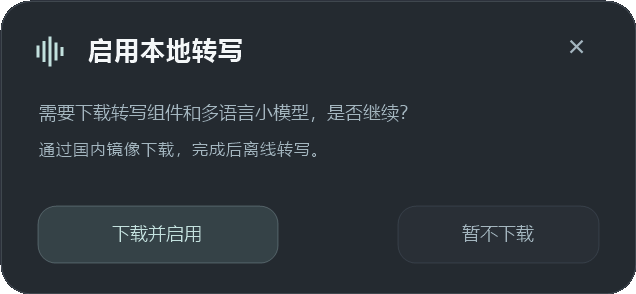
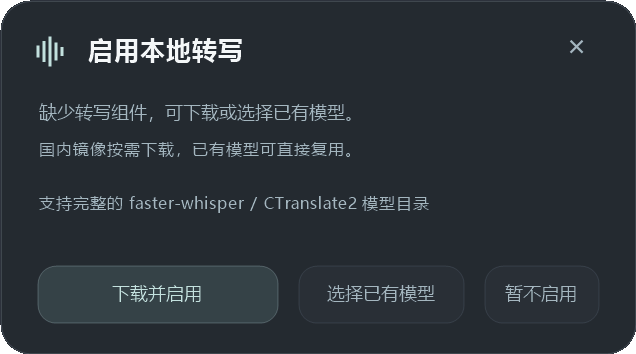
feat: choose existing local transcription model folders

diff --git a/native/main.cpp b/native/main.cpp
@@ -36,7 +36,7 @@ const Color accent(255,194,225,222), danger(255,244,117,118);
 }
 enum { Folder = 101, OpenFolder, ShowText, HideWindow, ExitApp,
        CallOff, CallAsk, CallAuto, Retry, ShowWindowCmd, ScopeGlobal, ScopeProgram, EditHotkeys, ToggleStartup,
-       ResetCloseAction, MessagingCalls };
+       ResetCloseAction, MessagingCalls, SelectModel };
 HWND window = nullptr, transcript = nullptr, edit = nullptr;
 fs::path project, config, root, session, activeRoot, model, python;
 fs::path diagnosticFrame;
@@ -125,6 +125,7 @@ void showCloseChoice(bool exitOnly=false,const std::wstring& callName=L"",bool s
 void resetCallGates();
 void beginAsrSetup();
 void toggleTranscription();
+bool chooseModelFolder();
 
 std::vector<Program> runningPrograms() {
     std::vector<Program> result;
@@ -340,6 +341,70 @@ void chunkReady(const lightrec::Chunk& c) {
 bool localAsrReady() {
     return !python.empty()&&fs::exists(python)&&!model.empty()&&
         fs::exists(model/L"model.bin")&&fs::exists(model/L"config.json");
+}
+bool modelFolderReady(const fs::path& folder) {
+    auto nonempty=[&](const wchar_t* name) {
+        std::error_code ec;
+        fs::path file=folder/name;
+        if(!fs::is_regular_file(file,ec)||ec) return false;
+        auto size=fs::file_size(file,ec);
+        return !ec&&size>0;
+    };
+    return !folder.empty()&&nonempty(L"model.bin")&&nonempty(L"config.json")&&
+        nonempty(L"tokenizer.json")&&(nonempty(L"vocabulary.txt")||nonempty(L"vocabulary.json"));
+}
+bool selectModelFolder(const fs::path& selected,std::wstring& issue) {
+    if(setupProcess) { issue=L"正在安装转写组件，请完成后再更换模型。"; return false; }
+    pollAsr();
+    if(enabled||asr) {
+        issue=L"请先关闭转写，当前分段完成后再更换模型。"; return false;
+    }
+    if(!modelFolderReady(selected)) {
+        issue=L"请选择含 model.bin、配置和词表的完整模型目录。"; return false;
+    }
+    if(!setting(L"asr_model",selected.wstring())) {
+        issue=L"模型位置无法保存，原设置已保留。"; return false;
+    }
+    model=selected; issue.clear(); return true;
+}
+bool chooseModelFolder() {
+    if(diagnostic) return false;
+    pollAsr();
+    if(setupProcess||enabled||asr) {
+        note=L"请先关闭转写，等待当前分段或安装完成后再选择模型"; return false;
+    }
+    IFileOpenDialog* dialog=nullptr;
+    if(FAILED(CoCreateInstance(CLSID_FileOpenDialog,nullptr,CLSCTX_INPROC_SERVER,
+                              IID_PPV_ARGS(&dialog)))) {
+        note=L"无法打开模型文件夹选择器"; return false;
+    }
+    DWORD opts=0; dialog->GetOptions(&opts);
+    dialog->SetOptions(opts|FOS_PICKFOLDERS|FOS_FORCEFILESYSTEM|FOS_PATHMUSTEXIST|FOS_NOCHANGEDIR);
+    dialog->SetTitle(L"选择完整的 faster-whisper 模型文件夹（含 model.bin）");
+    IShellItem* initial=nullptr;
+    if(!model.empty()&&SUCCEEDED(SHCreateItemFromParsingName(model.c_str(),nullptr,IID_PPV_ARGS(&initial)))) {
+        dialog->SetFolder(initial); initial->Release();
+    }
+    bool selected=false;
+    ++interactionDepth;
+    if(SUCCEEDED(dialog->Show(closeDialog?closeDialog:window))) {
+        IShellItem* item=nullptr;
+        if(SUCCEEDED(dialog->GetResult(&item))) {
+            PWSTR name=nullptr;
+            if(SUCCEEDED(item->GetDisplayName(SIGDN_FILESYSPATH,&name))) {
+                std::wstring issue;
+                selected=selectModelFolder(fs::path(name),issue);
+                CoTaskMemFree(name);
+                note=selected?L"模型位置已记住 · 直接使用原文件":issue;
+                if(!selected&&closeDialog) {
+                    closeIssue=true; SetDlgItemTextW(closeDialog,704,issue.c_str());
+                }
+            }
+            item->Release();
+        }
+    }
+    --interactionDepth; outsideSince=0;
+    dialog->Release(); return selected;
 }
 void beginAsrSetup() {
     if(diagnostic) return;
@@ -1298,7 +1363,7 @@ void paintCloseControl(HWND hwnd,HDC dc,bool hovered,bool forceFocus=false) {
     wchar_t label[256]{}; GetWindowTextW(hwnd,label,256);
     int id=GetDlgCtrlID(hwnd); bool focused=forceFocus||GetFocus()==hwnd;
     bool pushed=(SendMessageW(hwnd,BM_GETSTATE,0,0)&BST_PUSHED)!=0;
-    if(id==700||id==704||id==705) {
+    if(id==700||id==704||id==705||id==707) {
         text(g,label,0,0,w,h,id==700?17.f:id==705?12.f:11.f,
             id==700?ui::primary:(id==704&&closeIssue?ui::danger:ui::secondary),ui::font,id==700);
         return;
@@ -1322,7 +1387,7 @@ void paintCloseControl(HWND hwnd,HDC dc,bool hovered,bool forceFocus=false) {
         g.DrawLine(&cross,w/2-4,h/2-4,w/2+4,h/2+4);
         g.DrawLine(&cross,w/2+4,h/2-4,w/2-4,h/2+4);
     } else {
-        bool danger=id==702;
+        bool danger=id==702&&!closeSetupPrompt;
         bool primary=id==701;
         Color ink=danger?ui::danger:primary?ui::accent:ui::secondary;
         Color fill=danger?Color(pushed?65:hovered?45:20,244,117,118):
@@ -1343,7 +1408,7 @@ void paintCloseControl(HWND hwnd,HDC dc,bool hovered,bool forceFocus=false) {
 }
 LRESULT CALLBACK closeControlProc(HWND hwnd,UINT msg,WPARAM wp,LPARAM lp,UINT_PTR id,DWORD_PTR state) {
     if(msg==WM_NCHITTEST&&GetDlgCtrlID(hwnd)==700) return HTTRANSPARENT;
-    if(msg==WM_SETCURSOR&&GetDlgCtrlID(hwnd)!=700&&GetDlgCtrlID(hwnd)!=704&&GetDlgCtrlID(hwnd)!=705) {
+    if(msg==WM_SETCURSOR&&GetDlgCtrlID(hwnd)!=700&&GetDlgCtrlID(hwnd)!=704&&GetDlgCtrlID(hwnd)!=705&&GetDlgCtrlID(hwnd)!=707) {
         SetCursor(LoadCursorW(nullptr,IDC_HAND)); return TRUE;
     }
     if(msg==WM_ERASEBKGND) return 1;
@@ -1371,13 +1436,13 @@ void layoutClose(HWND hwnd) {
     float scale=closeScale;
     struct Item { int id,x,y,w,h; };
     const Item items[]={{700,56,19,300,30},{705,24,64,376,23},{704,24,88,376,24},
-        {703,24,124,260,28},{701,24,176,162,40},{702,198,176,112,40},
+        {703,24,124,260,28},{707,24,120,376,32},{701,24,176,162,40},{702,198,176,112,40},
         {IDCANCEL,322,176,78,40},{706,368,15,32,32}};
     HFONT next=CreateFontW(-(int)(14*scale),0,0,0,FW_NORMAL,FALSE,FALSE,FALSE,DEFAULT_CHARSET,
         OUT_DEFAULT_PRECIS,CLIP_DEFAULT_PRECIS,CLEARTYPE_QUALITY,DEFAULT_PITCH,L"Microsoft YaHei UI");
     for(const auto& item:items) {
         HWND child=GetDlgItem(hwnd,item.id);
-        bool question=closeCallPrompt||closeSetupPrompt;
+        bool question=closeCallPrompt;
         int y=(closeExitOnly&&(item.id==702||item.id==IDCANCEL))||
             (question&&(item.id==701||item.id==IDCANCEL))?136:item.y;
         int x=question&&item.id==IDCANCEL?264:item.x;
@@ -1415,6 +1480,13 @@ LRESULT CALLBACK closeProc(HWND hwnd,UINT msg,WPARAM wp,LPARAM lp) {
         if(id==IDOK) id=closeCallPrompt||closeSetupPrompt?IDCANCEL:closeExitOnly?702:701;
         if(closeCallPrompt||closeSetupPrompt) {
             bool setup=closeSetupPrompt;
+            if(setup&&id==702) {
+                if(chooseModelFolder()) {
+                    DestroyWindow(hwnd);
+                    toggleTranscription();
+                }
+                return 0;
+            }
             if(id==701||id==IDCANCEL||id==706) {
                 DestroyWindow(hwnd);
                 if(id==701) {
@@ -1457,7 +1529,7 @@ void showCloseChoice(bool exitOnly,const std::wstring& callName,bool setupPrompt
     float scale=GetDpiForWindow(window)/96.f;
     closeScale=scale;
     bool question=closeCallPrompt||closeSetupPrompt;
-    RECT bounds{0,0,(LONG)(424*scale),(LONG)((exitOnly||question?196:236)*scale)};
+    RECT bounds{0,0,(LONG)(424*scale),(LONG)((exitOnly||closeCallPrompt?196:236)*scale)};
     DWORD style=WS_POPUP|WS_CLIPCHILDREN;
     RECT owner; GetWindowRect(window,&owner);
     MONITORINFO info{sizeof(info)}; GetMonitorInfoW(MonitorFromWindow(window,MONITOR_DEFAULTTONEAREST),&info);
@@ -1475,27 +1547,40 @@ void showCloseChoice(bool exitOnly,const std::wstring& callName,bool setupPrompt
         SetWindowSubclass(item,closeControlProc,1,0);
     };
     std::wstring title=closeSetupPrompt?L"启用本地转写":closeCallPrompt?L"是否开始录音？":L"关闭全局录音";
-    std::wstring description=closeSetupPrompt?L"需要下载转写组件和多语言小模型，是否继续？":
+    bool existingModel=!model.empty();
+    std::wstring description=closeSetupPrompt?(existingModel?
+        L"已找到本地模型，仅需准备转写运行环境。":
+        L"缺少转写组件，可下载或选择已有模型。"):
         closeCallPrompt?L"检测到 "+callName+L" 正在使用麦克风。":
         exitOnly?L"停止并保存当前录音后退出？":L"收起到托盘，录音和转写会继续。";
     SetWindowTextW(closeDialog,title.c_str());
     child(L"STATIC",title.c_str(),0,700,22,18,380,25);
     child(L"STATIC",description.c_str(),0,705,22,51,380,22);
-    child(L"STATIC",closeSetupPrompt?L"通过国内镜像下载，完成后离线转写。":
+    child(L"STATIC",closeSetupPrompt?(existingModel?
+        L"仅下载运行组件，不复制或重复下载模型。":
+        L"国内镜像按需下载，已有模型可直接复用。"):
         closeCallPrompt?L"语音消息也可能触发；确认后才开始录音。":
         exitOnly?L"保存失败时会保留窗口并显示错误。":
           busy()||previewRecording?L"退出程序会先停止并保存当前录音。":L"退出程序将结束录音工具。",
           0,704,22,76,380,30);
     child(L"BUTTON",L"记住我的选择",BS_AUTOCHECKBOX|WS_TABSTOP,703,22,111,220,24);
-    child(L"BUTTON",closeSetupPrompt?L"下载并启用":closeCallPrompt?L"开始录音":L"最小化到托盘",
+    std::wstring modelLabel=existingModel?L"模型："+model.filename().wstring():L"支持完整的 faster-whisper / CTranslate2 模型目录";
+    if(modelLabel.size()>40) modelLabel=modelLabel.substr(0,37)+L"…";
+    child(L"STATIC",modelLabel.c_str(),0,707,24,120,376,32);
+    child(L"BUTTON",closeSetupPrompt?(existingModel?L"安装环境并启用":L"下载并启用"):closeCallPrompt?L"开始录音":L"最小化到托盘",
         (question?BS_PUSHBUTTON:BS_DEFPUSHBUTTON)|WS_TABSTOP,701,22,157,145,31);
-    child(L"BUTTON",exitOnly?L"保存并退出":L"退出程序",BS_PUSHBUTTON|WS_TABSTOP,702,178,157,112,31);
-    child(L"BUTTON",closeSetupPrompt?L"暂不下载":closeCallPrompt?L"暂不录制":L"取消",
+    child(L"BUTTON",closeSetupPrompt?(existingModel?L"更换模型…":L"选择已有模型"):exitOnly?L"保存并退出":L"退出程序",
+        BS_PUSHBUTTON|WS_TABSTOP,702,178,157,112,31);
+    child(L"BUTTON",closeSetupPrompt?L"暂不启用":closeCallPrompt?L"暂不录制":L"取消",
         (question?BS_DEFPUSHBUTTON:BS_PUSHBUTTON)|WS_TABSTOP,IDCANCEL,302,157,100,31);
     child(L"BUTTON",L"取消关闭",BS_PUSHBUTTON|WS_TABSTOP,706,368,15,32,32);
     layoutClose(closeDialog);
     if(exitOnly) { ShowWindow(GetDlgItem(closeDialog,701),SW_HIDE); ShowWindow(GetDlgItem(closeDialog,703),SW_HIDE); }
-    if(question) { ShowWindow(GetDlgItem(closeDialog,702),SW_HIDE); ShowWindow(GetDlgItem(closeDialog,703),SW_HIDE); }
+    if(question) {
+        if(!closeSetupPrompt) ShowWindow(GetDlgItem(closeDialog,702),SW_HIDE);
+        ShowWindow(GetDlgItem(closeDialog,703),SW_HIDE);
+    }
+    if(!closeSetupPrompt) ShowWindow(GetDlgItem(closeDialog,707),SW_HIDE);
     SetLayeredWindowAttributes(closeDialog,0,245,LWA_ALPHA);
     EnableWindow(window,FALSE);
     if(!diagnostic) {
@@ -1510,7 +1595,7 @@ bool renderClosePreview(const fs::path& path) {
     HGDIOBJ previous=SelectObject(memory,dib);
     // Render our own hidden native children, avoiding non-client offsets and desktop capture.
     paintCloseBackground(closeDialog,memory);
-    for(int id:{700,705,704,703,701,702,IDCANCEL,706}) {
+    for(int id:{700,705,704,707,703,701,702,IDCANCEL,706}) {
         HWND child=GetDlgItem(closeDialog,id);
         if(!(GetWindowLongPtrW(child,GWL_STYLE)&WS_VISIBLE)) continue;
         RECT bounds; GetWindowRect(child,&bounds);
@@ -1680,11 +1765,15 @@ bool promptWindowTest(const fs::path& target) {
         showCloseChoice(false,setup?L"":L"微信",setup);
         expect(closeDialog&&!IsWindowEnabled(window));
         expect(SendMessageW(closeDialog,DM_GETDEFID,0,0)==MAKELONG(IDCANCEL,DC_HASDEFID));
-        expect(!(GetWindowLongPtrW(GetDlgItem(closeDialog,702),GWL_STYLE)&WS_VISIBLE)&&
+        expect(((GetWindowLongPtrW(GetDlgItem(closeDialog,702),GWL_STYLE)&WS_VISIBLE)!=0)==setup&&
             !(GetWindowLongPtrW(GetDlgItem(closeDialog,703),GWL_STYLE)&WS_VISIBLE));
+        if(setup) {
+            closeProc(closeDialog,WM_COMMAND,702,0);
+            expect(closeDialog&&!setupProcess&&!enabled); // Diagnostics never open the real picker.
+        }
         for(float scale:{1.f,1.25f,1.5f,2.f}) {
             closeScale=scale;
-            SetWindowPos(closeDialog,nullptr,0,0,(int)(424*scale),(int)(196*scale),
+            SetWindowPos(closeDialog,nullptr,0,0,(int)(424*scale),(int)((setup?236:196)*scale),
                 SWP_NOMOVE|SWP_NOZORDER|SWP_NOACTIVATE);
             layoutClose(closeDialog);
             RECT client; GetClientRect(closeDialog,&client);
@@ -1693,9 +1782,17 @@ bool promptWindowTest(const fs::path& target) {
                 MapWindowPoints(nullptr,closeDialog,(POINT*)&item,2);
                 expect(item.left>=0&&item.top>=0&&item.right<=client.right&&item.bottom<=client.bottom);
             }
+            if(setup) {
+                RECT choose,download,cancel,detail;
+                GetWindowRect(GetDlgItem(closeDialog,702),&choose);
+                GetWindowRect(GetDlgItem(closeDialog,701),&download);
+                GetWindowRect(GetDlgItem(closeDialog,IDCANCEL),&cancel);
+                GetWindowRect(GetDlgItem(closeDialog,707),&detail);
+                expect(download.right<choose.left&&choose.right<cancel.left&&detail.bottom<choose.top);
+            }
         }
         closeScale=1.5f;
-        SetWindowPos(closeDialog,nullptr,0,0,636,294,SWP_NOMOVE|SWP_NOZORDER|SWP_NOACTIVATE);
+        SetWindowPos(closeDialog,nullptr,0,0,636,setup?354:294,SWP_NOMOVE|SWP_NOZORDER|SWP_NOACTIVATE);
         layoutClose(closeDialog);
         expect(renderClosePreview(target/(setup?L"setup-confirm.png":L"call-prompt.png")));
         closeProc(closeDialog,WM_COMMAND,IDOK,0);
@@ -1708,6 +1805,45 @@ bool promptWindowTest(const fs::path& target) {
     expect(diagnosticCallAccepts==1&&!closeDialog&&!busy());
     showCloseChoice(false,L"",true); closeProc(closeDialog,WM_COMMAND,701,0);
     expect(diagnosticCallAccepts==2&&!setupProcess&&!enabled&&!asr);
+    // Synthetic model directories only: persist the exact external path without copying weights.
+    fs::path oldConfig=config,oldProject=project,oldModel=model,oldPython=python;
+    config=fs::absolute(target)/L"model-selection.ini";
+    project=fs::absolute(target);
+    auto fixture=project/L"已有模型 中文 with spaces";
+    fs::create_directories(fixture);
+    for(auto name:{L"model.bin",L"config.json",L"tokenizer.json",L"vocabulary.txt"})
+        std::ofstream(fixture/name)<< (std::wstring(name)==L"model.bin"?"synthetic":"{}");
+    std::wstring issue;
+    auto size=fs::file_size(fixture/L"model.bin");
+    expect(modelFolderReady(fixture)&&!modelFolderReady(fixture/L"missing"));
+    expect(selectModelFolder(fixture,issue)&&issue.empty()&&model==fixture);
+    expect(ini(L"asr_model")==fixture.wstring());
+    expect(fs::file_size(fixture/L"model.bin")==size&&!fs::exists(project/L"models"));
+    expect(!selectModelFolder(fixture/L"missing",issue)&&model==fixture&&ini(L"asr_model")==fixture.wstring());
+    fs::remove(fixture/L"vocabulary.txt");
+    expect(!modelFolderReady(fixture));
+    std::ofstream(fixture/L"vocabulary.json")<<"[\"token\"]";
+    expect(modelFolderReady(fixture));
+    { std::ofstream(fixture/L"model.bin",std::ios::trunc); }
+    expect(!modelFolderReady(fixture));
+    std::ofstream(fixture/L"model.bin")<<"synthetic";
+    enabled=true;
+    expect(!selectModelFolder(fixture,issue)&&!issue.empty());
+    enabled=false;
+    setting(L"asr_python",L"missing/python.exe"); locateModel();
+    expect(model==fixture&&!localAsrReady());
+    showCloseChoice(false,L"",true);
+    wchar_t label[128]{};
+    GetWindowTextW(GetDlgItem(closeDialog,701),label,128);
+    expect(std::wstring(label)==L"安装环境并启用");
+    expect(renderClosePreview(target/L"setup-existing-model.png"));
+    closeProc(closeDialog,WM_COMMAND,IDCANCEL,0);
+    fs::path validConfig=config;
+    config=fixture/L"nonexistent-parent/settings.ini";
+    expect(!selectModelFolder(fixture,issue)&&model==fixture);
+    config=validConfig;
+    locateModel(); expect(model==fixture); // Reload persisted absolute path.
+    config=oldConfig; project=oldProject; model=oldModel; python=oldPython;
     std::string list="[";
     for(size_t i=0;i<failed.size();++i){if(i)list+=",";list+=std::to_string(failed[i]);}
     list+="]";
@@ -1753,6 +1889,7 @@ void command(int id) {
     struct Hold { Hold(){++interactionDepth; expandDock();} ~Hold(){--interactionDepth; outsideSince=0;} } hold;
     switch(id) {
     case Folder: chooseFolder(); break;
+    case SelectModel: chooseModelFolder(); break;
     case OpenFolder:
         ShellExecuteW(window,L"open",(session.empty()?root:session).c_str(),nullptr,nullptr,SW_SHOWNORMAL); break;
     case ShowText: showText(); break;
@@ -1802,6 +1939,7 @@ void menu() {
     AppendMenuW(m,MF_STRING,Folder,L"选择录音保存文件夹…");
     AppendMenuW(m,MF_STRING,OpenFolder,L"打开录音文件夹");
     AppendMenuW(m,MF_STRING,ShowText,L"查看转写正文");
+    AppendMenuW(m,MF_STRING,SelectModel,L"选择已有模型文件夹…");
     AppendMenuW(m,MF_STRING,Retry,L"重试本次未完成转写");
     AppendMenuW(m,MF_STRING,EditHotkeys,L"快捷键设置…");
     AppendMenuW(m,MF_STRING|(closeAction==CloseAction::Ask?MF_GRAYED:0),ResetCloseAction,L"恢复关闭时询问");

diff --git a/README.md b/README.md
@@ -14,6 +14,7 @@
 - 可选 faster-whisper 本地转写；关闭或暂停转写不影响录音。
 - QQ、微信麦克风活动持续约 3 秒后弹出录音询问，默认询问，不会直接开始录音。
 - 首次启用转写若缺少环境或模型，先询问是否下载，通过国内镜像在本地安装。
+- 首次启用窗口和更多菜单均可选择已有模型文件夹，直接复用并记住位置，不复制模型。
 
 活动触发依赖本机音频会话元数据。语音消息和语音输入也可能触发，并不是精确的微信通话检测；结束时需要手动停止录音。
 
@@ -72,11 +73,19 @@ recordings/
 
 ## 可选离线转写
 
-录音本身不依赖转写组件。直接点击“转写”，程序先检查已有本地 Python 环境与模型；缺少时询问是否“下载并启用”。取消不会下载；确认后才在后台准备独立运行环境和多语言 tiny 小模型，状态显示在悬浮条底部。下载失败可再次点击重试，录音不受影响。
+便携包只包含主程序、脚本与下载清单，不包含 Python 环境或模型权重。录音本身不依赖转写组件。
+
+电脑上已有模型时，在 `… → 选择已有模型文件夹…` 或首次启用窗口中点击“选择已有模型”，选择实际包含 `model.bin` 的完整 faster-whisper / CTranslate2 模型目录。必要文件还包括非空的 `config.json`、`tokenizer.json`，以及 `vocabulary.txt` 或 `vocabulary.json`。模型可以保留在其他磁盘，程序只记住绝对路径，不复制、不重复下载；不接受任意 GGUF 文件或未转换的原版模型。
+
+目录检查只确认必要文件齐全，实际兼容性以离线加载结果为准。更换模型前关闭转写，等待当前分段结束；无需停止录音。选错目录或取消选择会保留原设置。
+
+直接点击“转写”，程序先检查已有本地 Python 环境与模型；缺少时询问是否“下载并启用”。选择已有模型后，如果缺少运行环境，窗口改为“安装环境并启用”，只准备运行组件；所选模型加载失败时提示错误，不会自动下载替代模型。没有模型时，确认后才准备独立运行环境和多语言 tiny 小模型。取消不会下载，下载失败不影响录音，状态显示在悬浮条底部。
 
 下载优先使用国内镜像，文件校验通过后才发布就绪标记。自动安装目录为程序根目录中的 `runtime/asr/`，无需管理员权限，不修改系统 Python。确认前不会下载，运行中的录音也不会被安装流程停止。
 
 ![转写下载询问](docs/setup-confirm.png)
+
+![已有模型时仅准备环境](docs/setup-existing-model.png)
 
 模型优先从 HF Mirror 下载；Python 压缩包优先使用华为云镜像；Python 依赖优先使用清华 PyPI 镜像。镜像失败时使用清单中的备用来源，运行组件及模型文件的版本、来源和校验值见 `native/asr_downloads.json`。
 
@@ -87,7 +96,7 @@ py -3.11 -m venv .venv-asr
 .\.venv-asr\Scripts\python.exe -m pip install -r requirements-asr.txt
 ```
 
-默认查找 `.venv-asr/Scripts/pythonw.exe` 和 `models/faster-whisper-small/`。也可以在退出程序后编辑程序根目录的 `native.ini`，在已有 `[recorder]` 节中加入：
+默认查找 `.venv-asr/Scripts/pythonw.exe` 和 `models/faster-whisper-small/`。模型位置可直接从界面选择；需要指定已有 Python 时，也可以在退出程序后编辑程序根目录的 `native.ini`，在已有 `[recorder]` 节中加入：
 
 ```ini
 asr_python=E:\ASR\Scripts\pythonw.exe

diff --git a/docs/validation.md b/docs/validation.md
@@ -20,6 +20,8 @@
 
 `--animation-test` 在本程序隐藏窗口内对比完整面板重绘与缓存合成各 80 帧，记录 200% 缩放下的每帧耗时及 DIB/GDI 资源复用。该结果用于验证渲染开销，不能当作真实桌面显示帧率或真人手感验收。
 
-本轮公开版二进制的隐藏窗口待机诊断峰值工作集为 15.227 MiB、私有提交为 3.316 MiB，不含音频、模型或安装过程。200% 缩放下完整重绘 P95 为 4.0102 ms，缓存合成 P95 为 1.0621 ms；具体硬件和系统负载会影响测量。
+v0.2.1 公开版二进制重新测量的隐藏窗口待机诊断峰值工作集为 15.188 MiB、私有提交为 3.293 MiB，不含音频、模型或安装过程。200% 缩放下完整重绘 P95 为 3.1134 ms，缓存合成 P95 为 0.8233 ms；具体硬件和系统负载会影响测量。
 
-安装器在 Windows PowerShell 5.1 下通过 28 组离线测试、148 项断言，包括镜像顺序与备用源、固定哈希、无 Python 引导模拟、失败保留、重复复用、并发锁和目录移动保护。真实首次联网安装、干净电脑兼容性和真实转写仍为 NOT_RUN；镜像的完整 GET 下载链路也未在此验证中执行，不把元数据/HEAD 探测当作完整下载验收。
+安装器在 Windows PowerShell 5.1 下通过 29 组离线测试、152 项断言，包括镜像顺序与备用源、固定哈希、无 Python 引导模拟、失败保留、重复复用、并发锁和目录移动保护，以及明确选择本地模型后禁止下载替代模型。真实首次联网安装、干净电脑兼容性和真实转写仍为 NOT_RUN；镜像的完整 GET 下载链路也未在此验证中执行，不把元数据/HEAD 探测当作完整下载验收。
+
+v0.2.1 的 `--prompt-test` 共 98 项检查：新增模型选择按钮、四种缩放下的三按钮布局、合成模型结构检查、中文空格绝对路径持久化、词表两种格式、无效目录/空文件/不可写设置保留原配置、转写中拒绝更换，以及“已有模型，仅安装环境”的提示。测试不打开真实文件选择器，也不加载真实模型。100 项窗口逻辑和 95 项吸附窗口检查同样通过。
